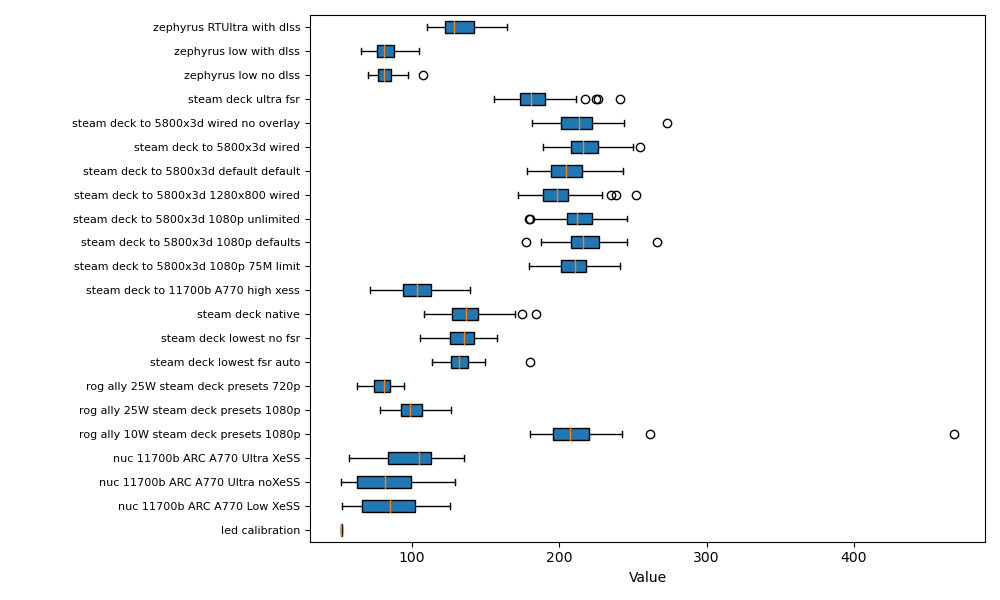
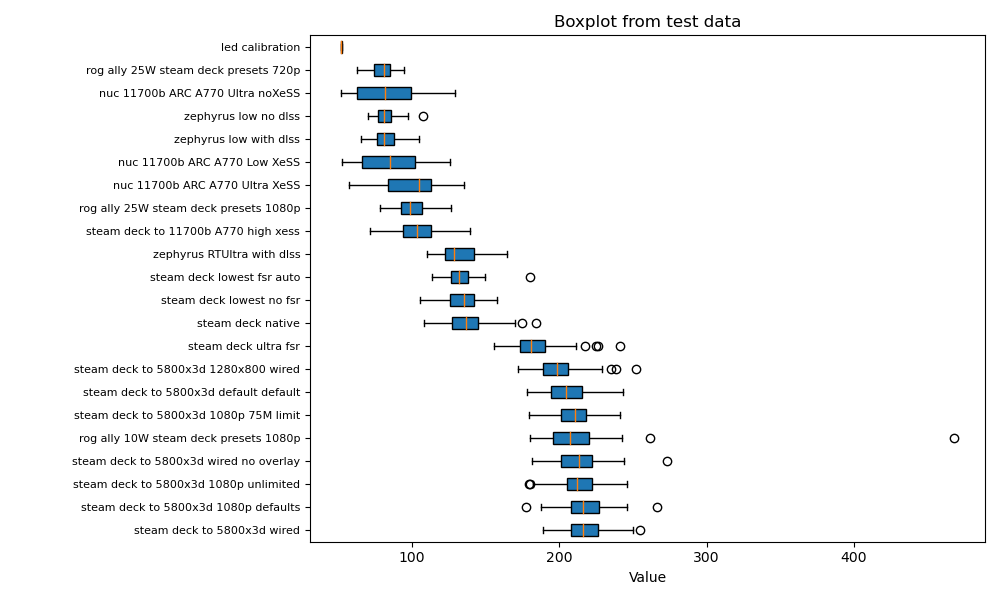
Improvements to the boxplot script.

diff --git a/make-graphs.py b/make-graphs.py
@@ -8,17 +8,22 @@ import argparse
 parser = argparse.ArgumentParser(description='Generate a horizontal boxplot for CSV files.')
 parser.add_argument('--directory', default='.', help='Directory path containing CSV files. Default is the current directory.')
 parser.add_argument('--heading', default='', help='The heading for the boxplot graph. Default is empty.')
+parser.add_argument('--sort', choices=['data', 'alphabet'], default=None, help='Sort boxplots by "data" (average value) or "alphabet" (filename). Default is no sorting.')
+parser.add_argument('--reverse', action='store_true', help='When sorting by "data", sorts from low to high. Default is high to low.')
 
 # Parse command line arguments
 args = parser.parse_args()
 
-# Use the directory path and heading provided by the user (or defaults)
+# Use the directory path, heading, sort option, and reverse flag provided by the user
 directory_path = args.directory
 graph_heading = args.heading
+sort_option = args.sort
+reverse_sort = args.reverse
 
-# Initialize a list to store the data from each CSV file
+# Initialize a list to store the data from each CSV file and a list for labels
 data_list = []
 labels = []
+averages = []
 
 # Loop through each file in the directory
 for filename in os.listdir(directory_path):
@@ -34,8 +39,21 @@ for filename in os.listdir(directory_path):
             # Process the filename to use as a label
             label = filename[:-4].replace('-', ' ')  # Remove '.csv' and replace dashes
             labels.append(label)
+            # Calculate and store the average for sorting if needed
+            averages.append(data[0].mean())
         except Exception as e:
             print(f'Failed to process {filename}: {e}')
+
+# Apply sorting based on the user's choice
+if sort_option == 'data':
+    sorted_lists = sorted(zip(labels, data_list, averages), key=lambda x: x[2], reverse=not reverse_sort)
+    labels, data_list, _ = zip(*sorted_lists)
+elif sort_option == 'alphabet':
+    labels, data_list = zip(*sorted(zip(labels, data_list), key=lambda x: x[0], reverse=reverse_sort))
+
+if sort_option in ['data', 'alphabet']:
+    labels = list(labels)
+    data_list = list(data_list)
 
 # Check if we have data to plot
 if data_list:
@@ -48,7 +66,7 @@ if data_list:
 
     # Improve readability of labels
     plt.tick_params(axis='y', which='major', labelsize=8)
-    plt.xticks(rotation=0)  # Ensure the value labels are horizontal
+    plt.xticks(rotation=0)
 
     # Save the plot as a PNG image file in the same directory
     image_path = os.path.join(directory_path, 'boxplot_horizontal.png')
